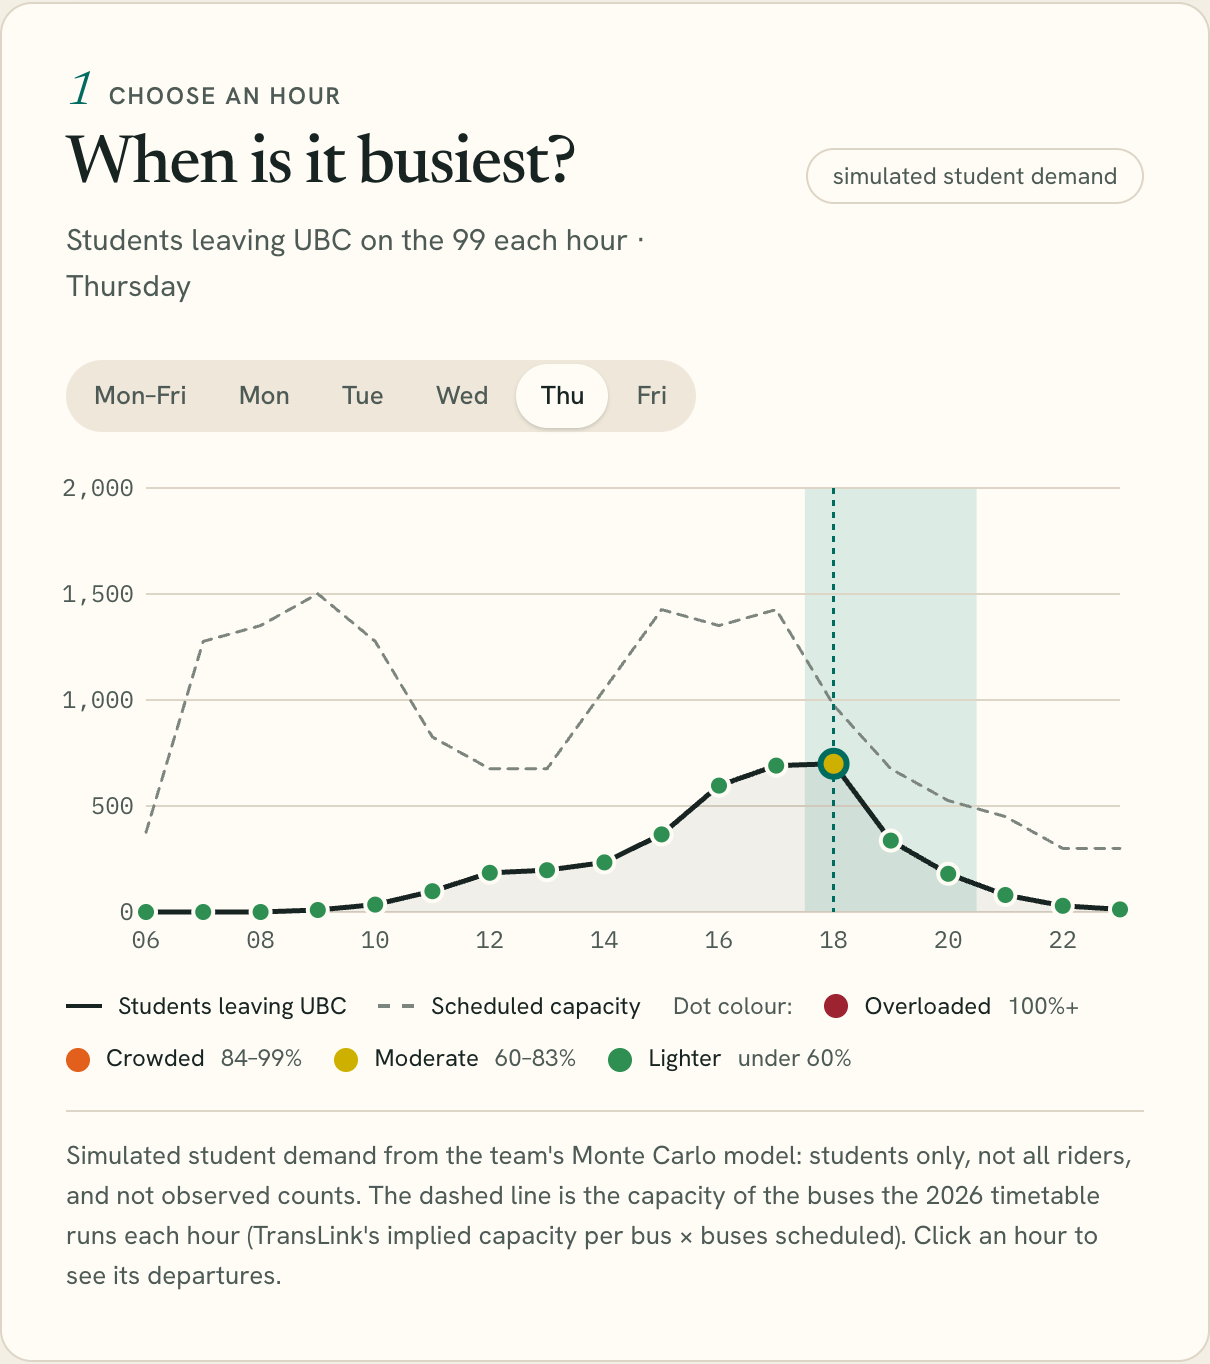
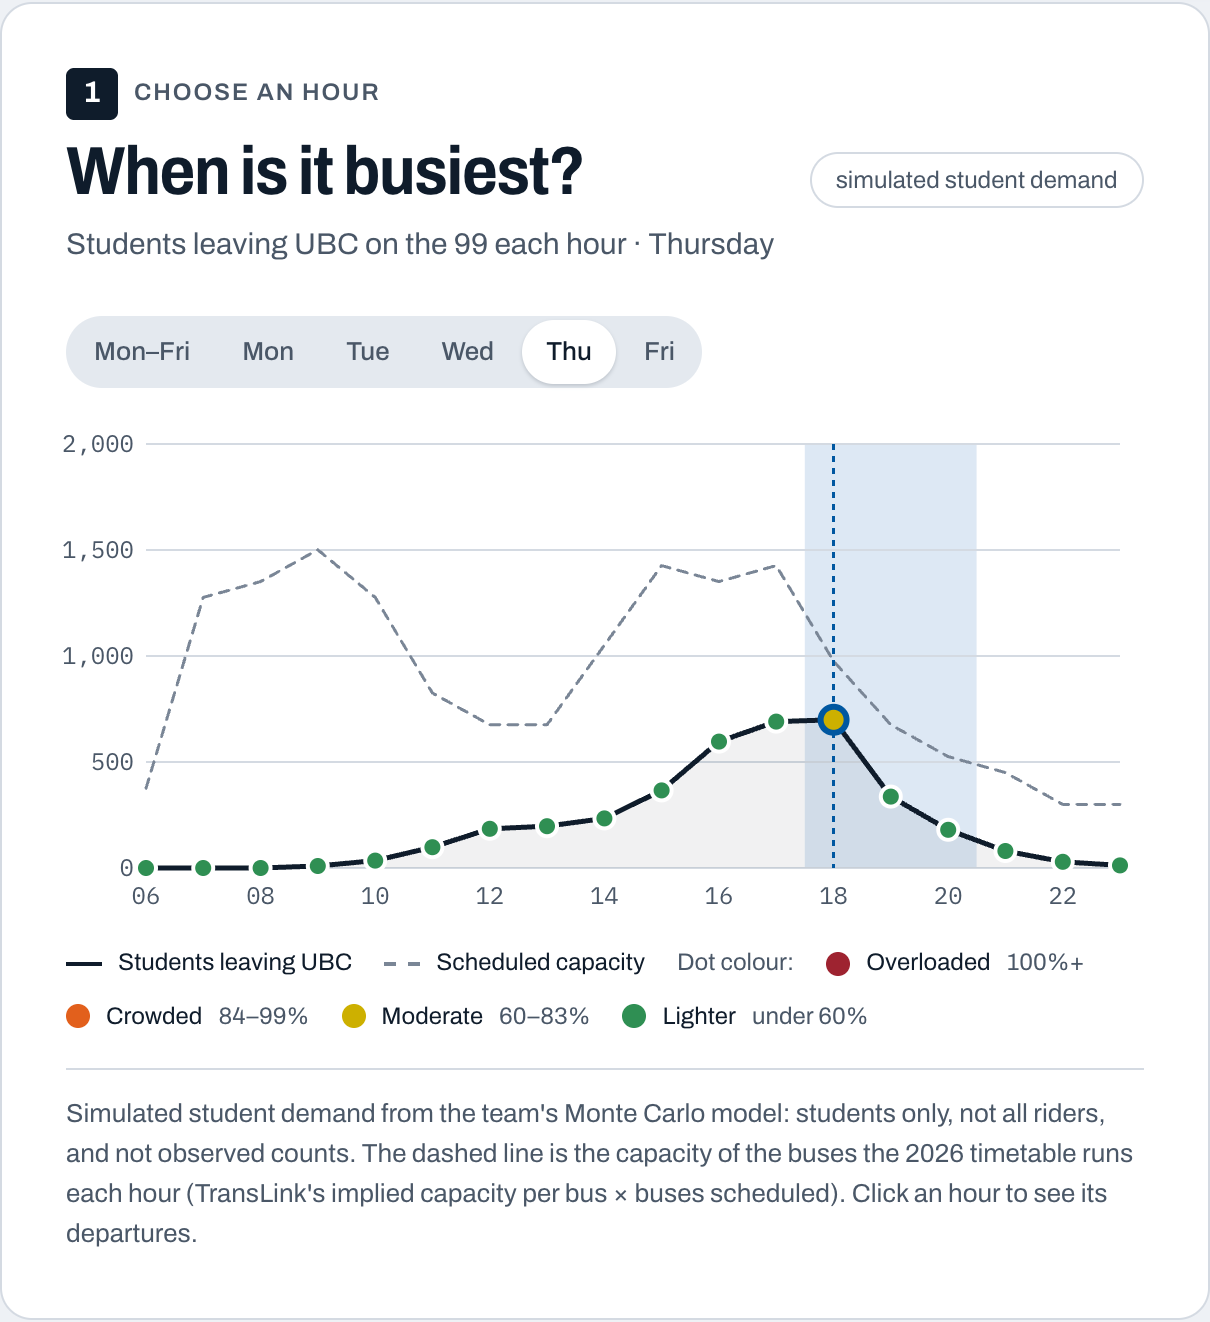
Give the planner a Metro Vancouver transit look
A transit-blue header band with a plain bus pictogram, white panels on a
cool grey, step numbers as sign tiles, Archivo headlines in place of the
serif, Canada Line and Expo Line in their line colours in the hero
diagram, and the answer as a real-time sign with an amber dot-matrix
figure (Doto). No agency logos or marks. Deck charts re-exported.

diff --git a/app/styles.css b/app/styles.css
@@ -1,25 +1,25 @@
 /* ── Tokens ───────────────────────────────────────────────────────────────────────────────
-   A transit timetable with an editorial voice: warm paper, ink, and colour reserved for the
-   routes and their load levels. The one dark surface is the departure board that answers the
-   page's question. Every value below is used by name; nothing else introduces a colour or size. */
+   Metro Vancouver transit wayfinding: white signs on a cool grey, a transit blue for the header
+   band and anything you can act on, and a near-black real-time sign with amber LED figures for
+   the answer. Route and load colours are the only other colour. No agency logos or marks.
+   Every value below is used by name; nothing else introduces a colour or size. */
 :root {
-  --paper: #f4efe5;
-  --surface: #fffcf6;
-  --ink: #172421;
-  --ink-2: #4d5a55;          /* secondary text: 6.3:1 on paper */
-  --rule: #ddd5c6;           /* hairlines */
-  --rule-strong: #7d857f;    /* borders of things you type in or pick: 3.7:1 */
-  --tint: #efe8da;           /* hover and quiet fills */
-  --accent: #006c60;         /* gains, links, the selected hour */
-  --accent-tint: #dcebe3;
+  --paper: #eef1f5;
+  --surface: #ffffff;
+  --ink: #0f1c2b;
+  --ink-2: #4a5767;          /* secondary text: 6.5:1 on paper */
+  --rule: #d4dae2;           /* hairlines */
+  --rule-strong: #7a8696;    /* borders of things you type in or pick: 3.3:1 */
+  --tint: #e4e9ef;           /* hover and quiet fills */
+  --accent: #0057a0;         /* transit blue: the header band, gains, links, the selected hour */
+  --accent-tint: #dde8f4;
   --loss: #a4302a;           /* losses and warnings only */
-  --loss-tint: #f6e2db;
-  --on-ink: #fffcf6;
-  --board: #13221e;          /* the departure board */
-  --board-rule: #2a3d37;
-  --on-board-2: #a9bab3;     /* 8.1:1 on the board */
-  --amber: #f7b53b;          /* board figures: 9.1:1 on the board */
-  --brand-dot: #eeb15a;
+  --loss-tint: #f7e3e0;
+  --on-ink: #ffffff;
+  --board: #0c1620;          /* the real-time sign */
+  --board-rule: #243242;
+  --on-board-2: #a7b4c2;     /* 8.6:1 on the board */
+  --amber: #f7b53b;          /* LED figures: 10.1:1 on the board */
 
   /* Load levels, checked for colour-blind separation; always shown with a label or value. */
   --load-overloaded: #9e2330;
@@ -40,14 +40,19 @@
   --route-33: #795083;
   --route-68: #3b6479;
   --route-N17: #35425e;
-  --rail: #8f9c97;
+  --rail: #8e99a6;
+  --rail-expo: #1d4f9c;      /* rapid transit line colours, only in the hero diagram */
+  --rail-canada: #0079a8;
 
-  /* Type: Newsreader for headlines and big figures, Hanken Grotesk for reading, Big Shoulders for
-     route numbers (the destination sign), Plex Mono for times. */
-  --font-display: "Newsreader", "Iowan Old Style", Georgia, serif;
-  --font-text: "Hanken Grotesk", system-ui, sans-serif;
+  /* Type: Archivo, a signage grotesque, for everything you read (semi-condensed and bold for
+     headlines); Big Shoulders for route numbers (the destination sign); Plex Mono for times;
+     Doto, a dot-matrix face, for the LED figure on the real-time sign. */
+  --font-display: "Archivo", "Helvetica Neue", Arial, sans-serif;
+  --font-text: "Archivo", "Helvetica Neue", Arial, sans-serif;
   --font-sign: "Big Shoulders Display", "Arial Narrow", sans-serif;
   --font-data: "IBM Plex Mono", ui-monospace, monospace;
+  --font-led: "Doto", "IBM Plex Mono", ui-monospace, monospace;
+  --stretch-display: 88%;
   --t-xs: 12px;
   --t-sm: 13px;
   --t-md: 15px;
@@ -59,7 +64,7 @@
   --t-board: 56px;           /* the figure on the departure board */
   --leading: 1.55;
   --leading-tight: 1.05;
-  --tracking-display: -0.025em;
+  --tracking-display: -0.02em;
   --tracking-caps: 0.08em;
 
   /* Space and shape */
@@ -77,8 +82,8 @@
   --r-pill: 999px;
   --hair: 1px;
   --thick: 3px;
-  --shadow: 0 1px 0 rgb(23 36 33 / 0.04), 0 14px 30px -20px rgb(23 36 33 / 0.35);
-  --shadow-pressed: 0 1px 2px rgb(23 36 33 / 0.18);
+  --shadow: 0 1px 0 rgb(15 28 43 / 0.04), 0 14px 30px -20px rgb(15 28 43 / 0.35);
+  --shadow-pressed: 0 1px 2px rgb(15 28 43 / 0.18);
   --measure: 64ch;
   --shell: 1240px;
   --control: 44px;
@@ -94,7 +99,7 @@ button, input { font: inherit; color: inherit; }
 button { cursor: pointer; }
 button:disabled { cursor: not-allowed; }
 a { color: var(--accent); text-underline-offset: 3px; }
-h1, h2, h3 { margin: 0; font-family: var(--font-display); font-weight: 500; letter-spacing: var(--tracking-display); line-height: var(--leading-tight); }
+h1, h2, h3 { margin: 0; font-family: var(--font-display); font-stretch: var(--stretch-display); font-weight: 700; letter-spacing: var(--tracking-display); line-height: var(--leading-tight); }
 p { margin: 0; }
 :focus-visible { outline: 2px solid var(--accent); outline-offset: 2px; }
 [hidden] { display: none !important; }
@@ -104,16 +109,21 @@ p { margin: 0; }
 .gap-number, .compare-value, .answer-value, .reroute-facts dd strong { font-variant-numeric: lining-nums tabular-nums; }
 
 /* ── Masthead and intro ───────────────────────────────────────────────────────────────── */
-.masthead { display: flex; align-items: center; justify-content: space-between; gap: var(--s-4); padding: var(--s-4) 0; border-bottom: var(--hair) solid var(--rule); }
-.brand { display: inline-flex; align-items: center; gap: var(--s-2); color: var(--ink); text-decoration: none; font-size: var(--t-lg); font-weight: 700; letter-spacing: -0.03em; }
-.brand-mark { display: grid; place-items: center; width: 28px; height: 28px; border-radius: var(--r-sm); background: var(--ink); color: var(--on-ink); font: 600 var(--t-md)/1 var(--font-data); }
-.brand-mark span { color: var(--brand-dot); }
-.masthead-meta { color: var(--ink-2); font-size: var(--t-sm); }
+/* A blue band across the top, like the head of a bus stop sign. */
+.masthead { background: var(--accent); color: var(--on-ink); }
+.masthead-inner { display: flex; align-items: center; justify-content: space-between; gap: var(--s-4); min-height: 60px; }
+.brand { display: inline-flex; align-items: center; gap: var(--s-3); color: var(--on-ink); text-decoration: none; font-size: var(--t-lg); font-weight: 700; font-stretch: var(--stretch-display); letter-spacing: -0.01em; }
+.brand-mark { display: grid; place-items: center; width: 34px; height: 34px; border-radius: var(--r-sm); background: var(--surface); }
+.brand-mark svg { width: 22px; height: 22px; }
+.brand-mark .bus-body { fill: var(--accent); }
+.brand-mark .bus-glass { fill: var(--surface); }
+.masthead-meta { font-size: var(--t-sm); font-weight: 500; }
+.brand:focus-visible, .masthead a:focus-visible { outline-color: var(--on-ink); }
 
 .intro { display: grid; grid-template-columns: minmax(0, 1.1fr) minmax(0, 0.9fr); align-items: center; gap: var(--s-6); padding: var(--s-7) 0 var(--s-6); }
 .eyebrow { margin-bottom: var(--s-3); color: var(--accent); font-size: var(--t-xs); font-weight: 600; letter-spacing: var(--tracking-caps); text-transform: uppercase; }
-h1 { font-size: var(--t-3xl); font-weight: 400; max-width: 13ch; }
-h1 em { font-style: italic; }
+h1 { font-size: var(--t-3xl); max-width: 13ch; }
+h1 em { font-style: normal; color: var(--accent); }
 .intro-copy { max-width: 52ch; margin-top: var(--s-4); color: var(--ink-2); font-size: var(--t-lg); line-height: 1.5; }
 .sources { display: grid; grid-template-columns: auto 1fr; gap: var(--s-1) var(--s-4); margin: var(--s-5) 0 0; padding-top: var(--s-3); border-top: var(--hair) solid var(--rule); font-size: var(--t-sm); }
 .sources dt { color: var(--ink-2); }
@@ -127,8 +137,10 @@ h1 em { font-style: italic; }
 .hero-hub { fill: var(--ink); stroke: var(--surface); stroke-width: 4; }
 /* The diagram scales with its column, so its text is sized in diagram units (about 0.7× on screen). */
 .hero-label { fill: var(--ink); font: 600 var(--t-lg) var(--font-text); }
-.hero-label.is-hub { font: 500 var(--t-xl) var(--font-display); }
-.hero-label.is-line { fill: var(--ink-2); font-size: var(--t-md); font-weight: 500; }
+.hero-label.is-hub { font: 700 var(--t-xl) var(--font-display); font-stretch: var(--stretch-display); }
+.hero-rail { fill: none; stroke: var(--rail-color); stroke-width: 5; stroke-linecap: round; }
+.hero-bullet rect { fill: var(--rail-color); }
+.hero-bullet text { fill: var(--on-ink); font: 700 var(--t-lg) var(--font-text); text-anchor: middle; }
 .hero-chip rect { fill: var(--route-line); }
 .hero-chip text { fill: var(--on-ink); font: 800 var(--t-xl) var(--font-sign); text-anchor: middle; }
 
@@ -156,10 +168,10 @@ h1 em { font-style: italic; }
 .answer { display: grid; grid-template-columns: auto minmax(0, 1fr) auto; align-items: center; gap: var(--s-4) var(--s-6); margin: var(--s-6) 0; padding: var(--s-5) var(--s-6); border-radius: var(--r-lg); background: var(--board); color: var(--on-ink); box-shadow: var(--shadow); }
 .answer .chip { min-width: 60px; height: 52px; font-size: var(--t-2xl); }
 .answer-context { display: block; color: var(--amber); font: 500 var(--t-sm) var(--font-data); letter-spacing: 0.02em; }
-.answer-verdict { margin-top: var(--s-1); font: 500 var(--t-2xl)/1.1 var(--font-display); letter-spacing: var(--tracking-display); }
+.answer-verdict { margin-top: var(--s-1); font: 700 var(--t-2xl)/1.1 var(--font-display); font-stretch: var(--stretch-display); letter-spacing: var(--tracking-display); }
 .answer-verdict small { display: block; max-width: var(--measure); margin-top: var(--s-2); color: var(--on-board-2); font: 400 var(--t-md)/1.45 var(--font-text); letter-spacing: 0; }
 .answer-side { padding-left: var(--s-6); border-left: var(--hair) solid var(--board-rule); text-align: right; }
-.answer-value { display: block; color: var(--amber); font: 500 var(--t-board)/1 var(--font-display); letter-spacing: var(--tracking-display); }
+.answer-value { display: block; color: var(--amber); font: 900 var(--t-board)/1 var(--font-led); font-variation-settings: "ROND" 100; text-shadow: 0 0 14px rgb(247 181 59 / 0.35); }
 .answer-side a { color: var(--on-board-2); font-size: var(--t-sm); }
 .answer-side a:hover { color: var(--on-ink); }
 .answer.is-quiet { grid-template-columns: auto minmax(0, 1fr); background: var(--surface); color: var(--ink); border: var(--hair) solid var(--rule); box-shadow: none; }
@@ -170,8 +182,9 @@ h1 em { font-style: italic; }
 .work-grid { display: grid; grid-template-columns: minmax(0, 1.05fr) minmax(0, 0.95fr); gap: var(--s-5); align-items: start; }
 .panel { min-width: 0; padding: var(--s-6); border: var(--hair) solid var(--rule); border-radius: var(--r-lg); background: var(--surface); }
 .candidates-panel, .map-panel { margin-top: var(--s-5); }
-.section-topline { display: flex; align-items: baseline; gap: var(--s-2); color: var(--ink-2); font-size: var(--t-xs); font-weight: 600; letter-spacing: var(--tracking-caps); text-transform: uppercase; }
-.step { color: var(--accent); font: italic 400 var(--t-xl)/1 var(--font-display); letter-spacing: 0; text-transform: none; }
+.section-topline { display: flex; align-items: center; gap: var(--s-2); color: var(--ink-2); font-size: var(--t-xs); font-weight: 600; letter-spacing: var(--tracking-caps); text-transform: uppercase; }
+/* Step numbers are wayfinding tiles: a white figure on a dark square. */
+.step { display: inline-grid; place-items: center; align-self: center; width: 26px; height: 26px; border-radius: var(--r-sm); background: var(--ink); color: var(--on-ink); font: 700 var(--t-md)/1 var(--font-text); letter-spacing: 0; text-transform: none; }
 .section-heading, .candidates-heading { display: flex; justify-content: space-between; align-items: start; gap: var(--s-4); margin: var(--s-2) 0 var(--s-5); }
 .candidates-heading { margin-top: 0; }
 .candidates-heading h2 { margin-top: var(--s-2); }
@@ -276,7 +289,7 @@ h2 { font-size: var(--t-2xl); }
 .gap-summary { display: flex; align-items: end; justify-content: space-between; gap: var(--s-4); padding-top: var(--s-4); border-top: var(--hair) solid var(--rule); }
 .gap-label { display: block; margin-bottom: var(--s-1); color: var(--ink-2); font-size: var(--t-sm); }
 .gap-summary strong { font: 500 var(--t-lg) var(--font-data); }
-.gap-number { font: 400 var(--t-3xl)/0.9 var(--font-display); white-space: nowrap; }
+.gap-number { font: 700 var(--t-3xl)/0.9 var(--font-display); font-stretch: var(--stretch-display); white-space: nowrap; }
 .gap-number small { margin-left: var(--s-1); color: var(--ink-2); font: 400 var(--t-md) var(--font-text); }
 
 /* ── Step 3: options, buses to redirect, line counts ──────────────────────────────────── */
@@ -287,12 +300,12 @@ h2 { font-size: var(--t-2xl); }
 .compare-card.is-best { border-color: var(--ink); background: var(--surface); box-shadow: var(--shadow); }
 .compare-kicker { display: flex; align-items: center; justify-content: space-between; gap: var(--s-2); min-height: var(--s-5); font-size: var(--t-xs); font-weight: 600; letter-spacing: var(--tracking-caps); text-transform: uppercase; }
 .compare-badge { padding: var(--s-0) var(--s-2); border-radius: var(--r-pill); background: var(--board); color: var(--amber); font-size: var(--t-xs); font-weight: 600; letter-spacing: 0.02em; text-transform: none; }
-.compare-value { display: block; margin-top: var(--s-2); font: 500 var(--t-figure)/1 var(--font-display); letter-spacing: var(--tracking-display); }
+.compare-value { display: block; margin-top: var(--s-2); font: 700 var(--t-figure)/1 var(--font-display); font-stretch: var(--stretch-display); letter-spacing: var(--tracking-display); }
 .compare-value.is-positive { color: var(--accent); }
 .compare-value.is-negative { color: var(--loss); }
 .compare-card small { display: block; margin-top: var(--s-1); color: var(--ink-2); font-size: var(--t-xs); }
 .compare-card p { margin-top: var(--s-3); color: var(--ink-2); font-size: var(--t-sm); }
-.compare-verdict { margin-top: var(--s-4); font: italic 400 var(--t-xl)/1.3 var(--font-display); }
+.compare-verdict { max-width: 58ch; margin-top: var(--s-4); font: 600 var(--t-xl)/1.3 var(--font-display); font-stretch: var(--stretch-display); }
 /* Mini timeline inside each option: where the extra or borrowed bus lands in the gap. */
 .compare-timeline { display: block; width: 100%; height: auto; margin-top: var(--s-3); overflow: visible; }
 .tl-axis { stroke: var(--rule-strong); stroke-width: 1.5; }
@@ -339,7 +352,7 @@ h2 { font-size: var(--t-2xl); }
 .queue-inputs input:focus-visible { outline-offset: 0; border-color: var(--accent); }
 .queue-source { display: block; margin-top: var(--s-2); color: var(--ink-2); font-size: var(--t-xs); }
 .queue-result { margin-top: var(--s-4); padding: var(--s-3) var(--s-4); border-radius: var(--r-sm); background: var(--surface); box-shadow: inset var(--thick) 0 0 var(--rule-strong); }
-.queue-result strong { display: block; font: 500 var(--t-xl) var(--font-display); }
+.queue-result strong { display: block; font: 700 var(--t-xl) var(--font-display); font-stretch: var(--stretch-display); }
 .queue-result strong.is-positive { color: var(--accent); }
 .queue-result strong.is-negative { color: var(--loss); }
 .queue-result p { margin-top: var(--s-1); color: var(--ink-2); font-size: var(--t-sm); }
@@ -381,7 +394,7 @@ h2 { font-size: var(--t-2xl); }
 .map-station.is-minor text { fill: var(--ink-2); font-weight: 500; font-size: var(--t-xs); }
 .map-ubc circle { fill: var(--ink); stroke: var(--surface); stroke-width: 3; }
 .map-ubc .map-ubc-core { fill: var(--surface); stroke: none; }
-.map-ubc text { fill: var(--ink); font: 500 var(--t-lg) var(--font-display); paint-order: stroke; stroke: var(--paper); stroke-width: 4px; stroke-linejoin: round; }
+.map-ubc text { fill: var(--ink); font: 700 var(--t-lg) var(--font-display); font-stretch: var(--stretch-display); paint-order: stroke; stroke: var(--paper); stroke-width: 4px; stroke-linejoin: round; }
 .map-scale path { fill: none; stroke: var(--ink-2); stroke-width: 2; }
 .map-scale text, .map-north text { fill: var(--ink-2); font: 400 var(--t-xs) var(--font-data); }
 .map-north path { fill: var(--ink-2); }
@@ -407,7 +420,7 @@ h2 { font-size: var(--t-2xl); }
 .reroute-facts div + div { padding-top: var(--s-3); border-top: var(--hair) solid var(--rule); }
 .reroute-facts dt { margin-bottom: var(--s-1); color: var(--ink-2); font-size: var(--t-sm); }
 .reroute-facts dd { margin: 0; color: var(--ink-2); font-size: var(--t-sm); }
-.reroute-facts dd strong { color: var(--ink); font: 500 var(--t-xl) var(--font-display); }
+.reroute-facts dd strong { color: var(--ink); font: 700 var(--t-xl) var(--font-display); font-stretch: var(--stretch-display); }
 .reroute-facts dd small { display: block; margin-top: var(--s-1); font-size: var(--t-xs); }
 .reroute-facts dd small.inline { display: inline; }
 .reroute-bar { display: block; height: 6px; margin-top: var(--s-2); border-radius: var(--r-pill); background: var(--tint); overflow: hidden; }

diff --git a/index.html b/index.html
@@ -3,20 +3,22 @@
   <head>
     <meta charset="utf-8" />
     <meta name="viewport" content="width=device-width, initial-scale=1" />
-    <meta name="theme-color" content="#f4efe5" />
+    <meta name="theme-color" content="#0057a0" />
     <title>Termsync — UBC Bus Planner</title>
     <link rel="preconnect" href="https://fonts.googleapis.com" />
     <link rel="preconnect" href="https://fonts.gstatic.com" crossorigin />
-    <link href="https://fonts.googleapis.com/css2?family=Big+Shoulders+Display:wght@700;800&family=Hanken+Grotesk:wght@400;500;600;700&family=IBM+Plex+Mono:wght@400;500&family=Newsreader:ital,opsz,wght@0,6..72,400;0,6..72,500;1,6..72,400&display=swap" rel="stylesheet" />
+    <link href="https://fonts.googleapis.com/css2?family=Archivo:wdth,wght@75..100,400..800&family=Big+Shoulders+Display:wght@700;800&family=Doto:ROND,wght@0..100,900&family=IBM+Plex+Mono:wght@400;500&display=swap" rel="stylesheet" />
     <link rel="stylesheet" href="app/styles.css" />
     <script src="app/app.js" defer></script>
   </head>
   <body>
-    <div class="shell">
-      <header class="masthead">
-        <a class="brand" href="./" aria-label="Termsync home"><span class="brand-mark">t<span>.</span></span><span>termsync</span></a>
+    <header class="masthead">
+      <div class="shell masthead-inner">
+        <a class="brand" href="./" aria-label="Termsync home"><span class="brand-mark"><svg viewBox="0 0 24 24" aria-hidden="true"><path class="bus-body" d="M7 2h10a3 3 0 0 1 3 3v12a2 2 0 0 1-1 1.73V21a1 1 0 0 1-1 1h-1.5a1 1 0 0 1-1-1v-2h-7v2a1 1 0 0 1-1 1H6a1 1 0 0 1-1-1v-2.27A2 2 0 0 1 4 17V5a3 3 0 0 1 3-3z" /><rect class="bus-glass" x="6" y="5" width="12" height="7" rx="1" /><circle class="bus-glass" cx="8" cy="15.5" r="1.3" /><circle class="bus-glass" cx="16" cy="15.5" r="1.3" /></svg></span><span>termsync</span></a>
         <span class="masthead-meta">UBC Exchange service planner</span>
-      </header>
+      </div>
+    </header>
+    <div class="shell">
 
       <main>
         <section class="intro" aria-labelledby="page-title">
@@ -31,9 +33,9 @@
             </dl>
           </div>
           <svg class="hero-diagram" viewBox="0 0 760 300" role="img" aria-label="Schematic: the 99, R4 and 49 leave UBC Exchange, cross the Canada Line at Broadway–City Hall, Oakridge–41st and Langara–49th, and end at Commercial–Broadway, Joyce–Collingwood and Metrotown on the Expo Line.">
-            <path class="map-rail" d="M410 26 L410 274" /><path class="map-rail" d="M560 26 L560 274" />
-            <text class="hero-label is-line" x="410" y="16" text-anchor="middle">Canada Line</text>
-            <text class="hero-label is-line" x="560" y="16" text-anchor="middle">Expo Line</text>
+            <path class="hero-rail" style="--rail-color:var(--rail-canada)" d="M410 40 L410 280" /><path class="hero-rail" style="--rail-color:var(--rail-expo)" d="M560 40 L560 280" />
+            <g class="hero-bullet" style="--rail-color:var(--rail-canada)" transform="translate(410 20)"><rect x="-66" y="-17" width="132" height="34" rx="17" /><text dy="0.35em">Canada Line</text></g>
+            <g class="hero-bullet" style="--rail-color:var(--rail-expo)" transform="translate(560 20)"><rect x="-54" y="-17" width="108" height="34" rx="17" /><text dy="0.35em">Expo Line</text></g>
             <path class="hero-line" style="--route-line:var(--route-99)" d="M150 150 L230 70 L560 70" /><path class="hero-line" style="--route-line:var(--route-R4)" d="M150 150 L560 150" /><path class="hero-line" style="--route-line:var(--route-49)" d="M150 150 L230 230 L560 230" />
             <circle class="hero-stop" cx="410" cy="70" r="9" /><circle class="hero-stop is-terminus" cx="560" cy="70" r="11" /><circle class="hero-stop" cx="410" cy="150" r="9" /><circle class="hero-stop is-terminus" cx="560" cy="150" r="11" /><circle class="hero-stop" cx="410" cy="230" r="9" /><circle class="hero-stop is-terminus" cx="560" cy="230" r="11" />
             <g class="hero-chip" style="--route-line:var(--route-99)" transform="translate(292 70)"><rect x="-24" y="-16" width="48" height="32" rx="4" /><text dy="0.36em">99</text></g><g class="hero-chip" style="--route-line:var(--route-R4)" transform="translate(292 150)"><rect x="-24" y="-16" width="48" height="32" rx="4" /><text dy="0.36em">R4</text></g><g class="hero-chip" style="--route-line:var(--route-49)" transform="translate(292 230)"><rect x="-24" y="-16" width="48" height="32" rx="4" /><text dy="0.36em">49</text></g>

diff --git a/app/README.md b/app/README.md
@@ -2,7 +2,7 @@
 
 From the repository root, run `python3 -m http.server 5173` and open `http://localhost:5173/`. This is a static HTML/CSS/JavaScript app with no build step.
 
-**Design.** Every colour, type size, space and radius is a token at the top of [`styles.css`](styles.css). The palette is warm paper and ink, one teal accent, red only for losses, and a dark departure board (amber figures) for the recommendation; other colour belongs to routes and load levels. Type is Newsreader for headlines and big figures, Hanken Grotesk for text, Big Shoulders Display for route numbers and IBM Plex Mono for times. Use the tokens rather than adding raw values.
+**Design.** Every colour, type size, space and radius is a token at the top of [`styles.css`](styles.css). The look borrows from Metro Vancouver transit wayfinding without using any agency logo or mark: a transit-blue header band, white panels on a cool grey, step numbers as sign tiles, and a near-black real-time sign with an amber LED figure for the recommendation. Blue is for actions and gains, red only for losses; other colour belongs to routes, load levels and the two rapid transit lines in the hero diagram. Type is Archivo (semi-condensed bold for headlines), Big Shoulders Display for route numbers, IBM Plex Mono for times and Doto for the LED figure. Use the tokens rather than adding raw values.
 
 The route picker shows the three routes the planner is about: 99, R4 and 49. The data covers 12 routes from UBC Exchange. The ten regular routes (99, R4, 49, 9, 44, 84, 4, 14, 25, 33) supply buses that could be redirected, and any of the 12 opens with a link such as `?route=44`. Route 68 is a [UBC campus shuttle](https://planning.ubc.ca/transportation/transit) and N17 has timetable and map context only. Neither is offered as a city-route donor. Queue counts in step 03 start from a **Monte Carlo student-demand simulation**; they are editable estimates, not observations.
 
